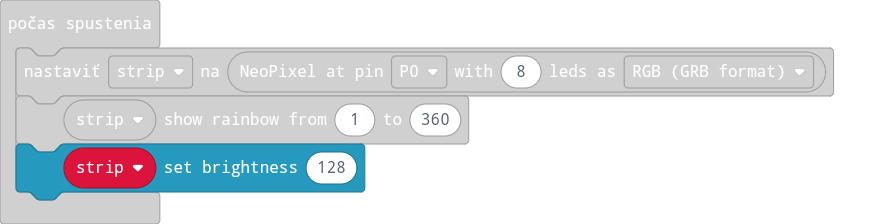
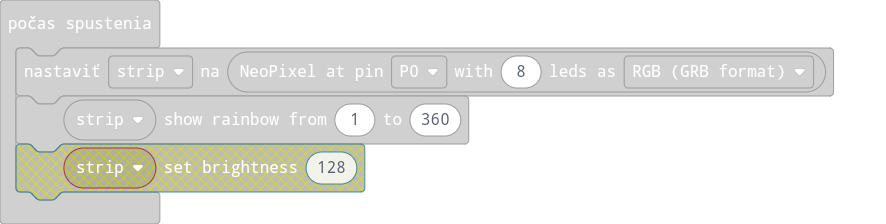
Update main.blocks, main.ts

Changed region(s): [[0.0, 0.625, 0.4266, 0.9062]]

diff --git a/main.ts b/main.ts
@@ -1,6 +1,5 @@
 let strip = neopixel.create(DigitalPin.P0, 8, NeoPixelMode.RGB)
 strip.showRainbow(1, 360)
-strip.setBrightness(128)
 basic.forever(function () {
     strip.show()
     strip.rotate(1)
